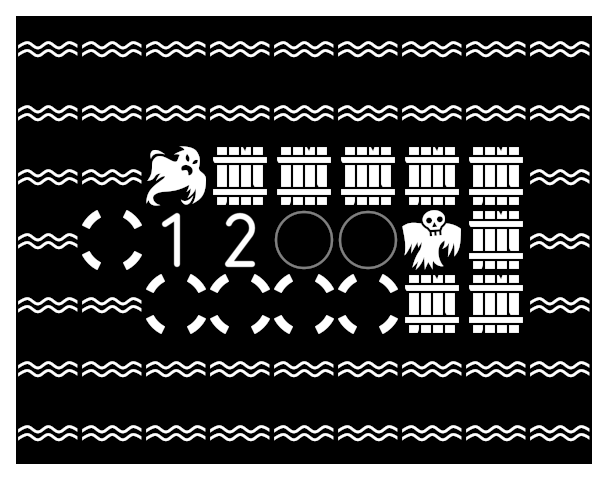
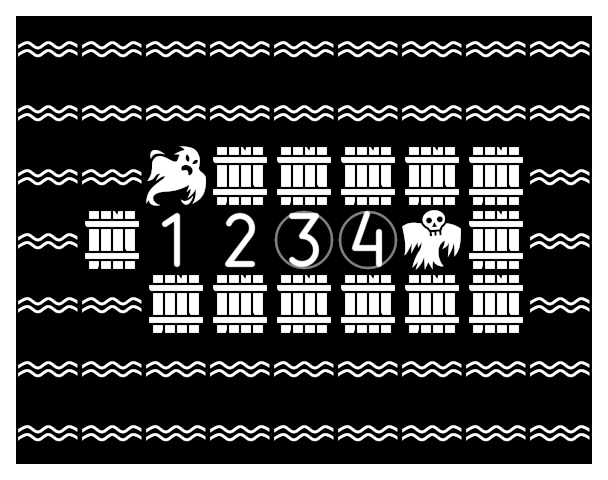
fix: map renderer

Changed region(s): [[0.2188, 0.4375, 0.6562, 0.7188], [0.125, 0.4375, 0.25, 0.5625]]

diff --git a/src/MapRenderer.hpp b/src/MapRenderer.hpp
@@ -102,13 +102,17 @@ namespace BloodSword::MapRenderer
 
                         if (!tile.IsOccupied())
                         {
-                            if (tile.Type == Map::Object::EXIT || tile.Asset == Asset::Type::EMPTY_SPACE)
+                            if (tile.Asset == Asset::Type::EMPTY_SPACE)
                             {
                                 surface_asset = BloodSword::Asset::Surface(Asset::Type::SELECT);
                             }
                             else if (tile.Asset != Asset::Type::NONE)
                             {
                                 surface_asset = BloodSword::Asset::Surface(tile.Asset);
+                            }
+                            else if (tile.Type == Map::Object::EXIT)
+                            {
+                                surface_asset = BloodSword::Asset::Surface(Asset::Type::SELECT);
                             }
                         }
                         else
@@ -161,6 +165,15 @@ namespace BloodSword::MapRenderer
                     }
                 }
 
+                // away players
+                MapRenderer::RenderPoints(surface, battle.Map.AwayPlayers, rect, offset, Asset::Type::CIRCLE, true);
+
+                // survivors
+                MapRenderer::RenderPoints(surface, battle.Map.Survivors, rect, offset, Asset::Type::SELECT, true);
+
+                // away opponents
+                MapRenderer::RenderPoints(surface, battle.Map.AwayOpponents, rect, offset, Asset::Type::SELECT, true);
+
                 // player locations
                 auto number = 1;
 
@@ -176,15 +189,6 @@ namespace BloodSword::MapRenderer
 
                     number++;
                 }
-
-                // away players
-                MapRenderer::RenderPoints(surface, battle.Map.AwayPlayers, rect, offset, Asset::Type::CIRCLE, true);
-
-                // survivors
-                MapRenderer::RenderPoints(surface, battle.Map.Survivors, rect, offset, Asset::Type::SELECT, true);
-
-                // away opponents
-                MapRenderer::RenderPoints(surface, battle.Map.AwayOpponents, rect, offset, Asset::Type::SELECT, true);
 
                 IMG_SavePNG(surface, image_file);
 
